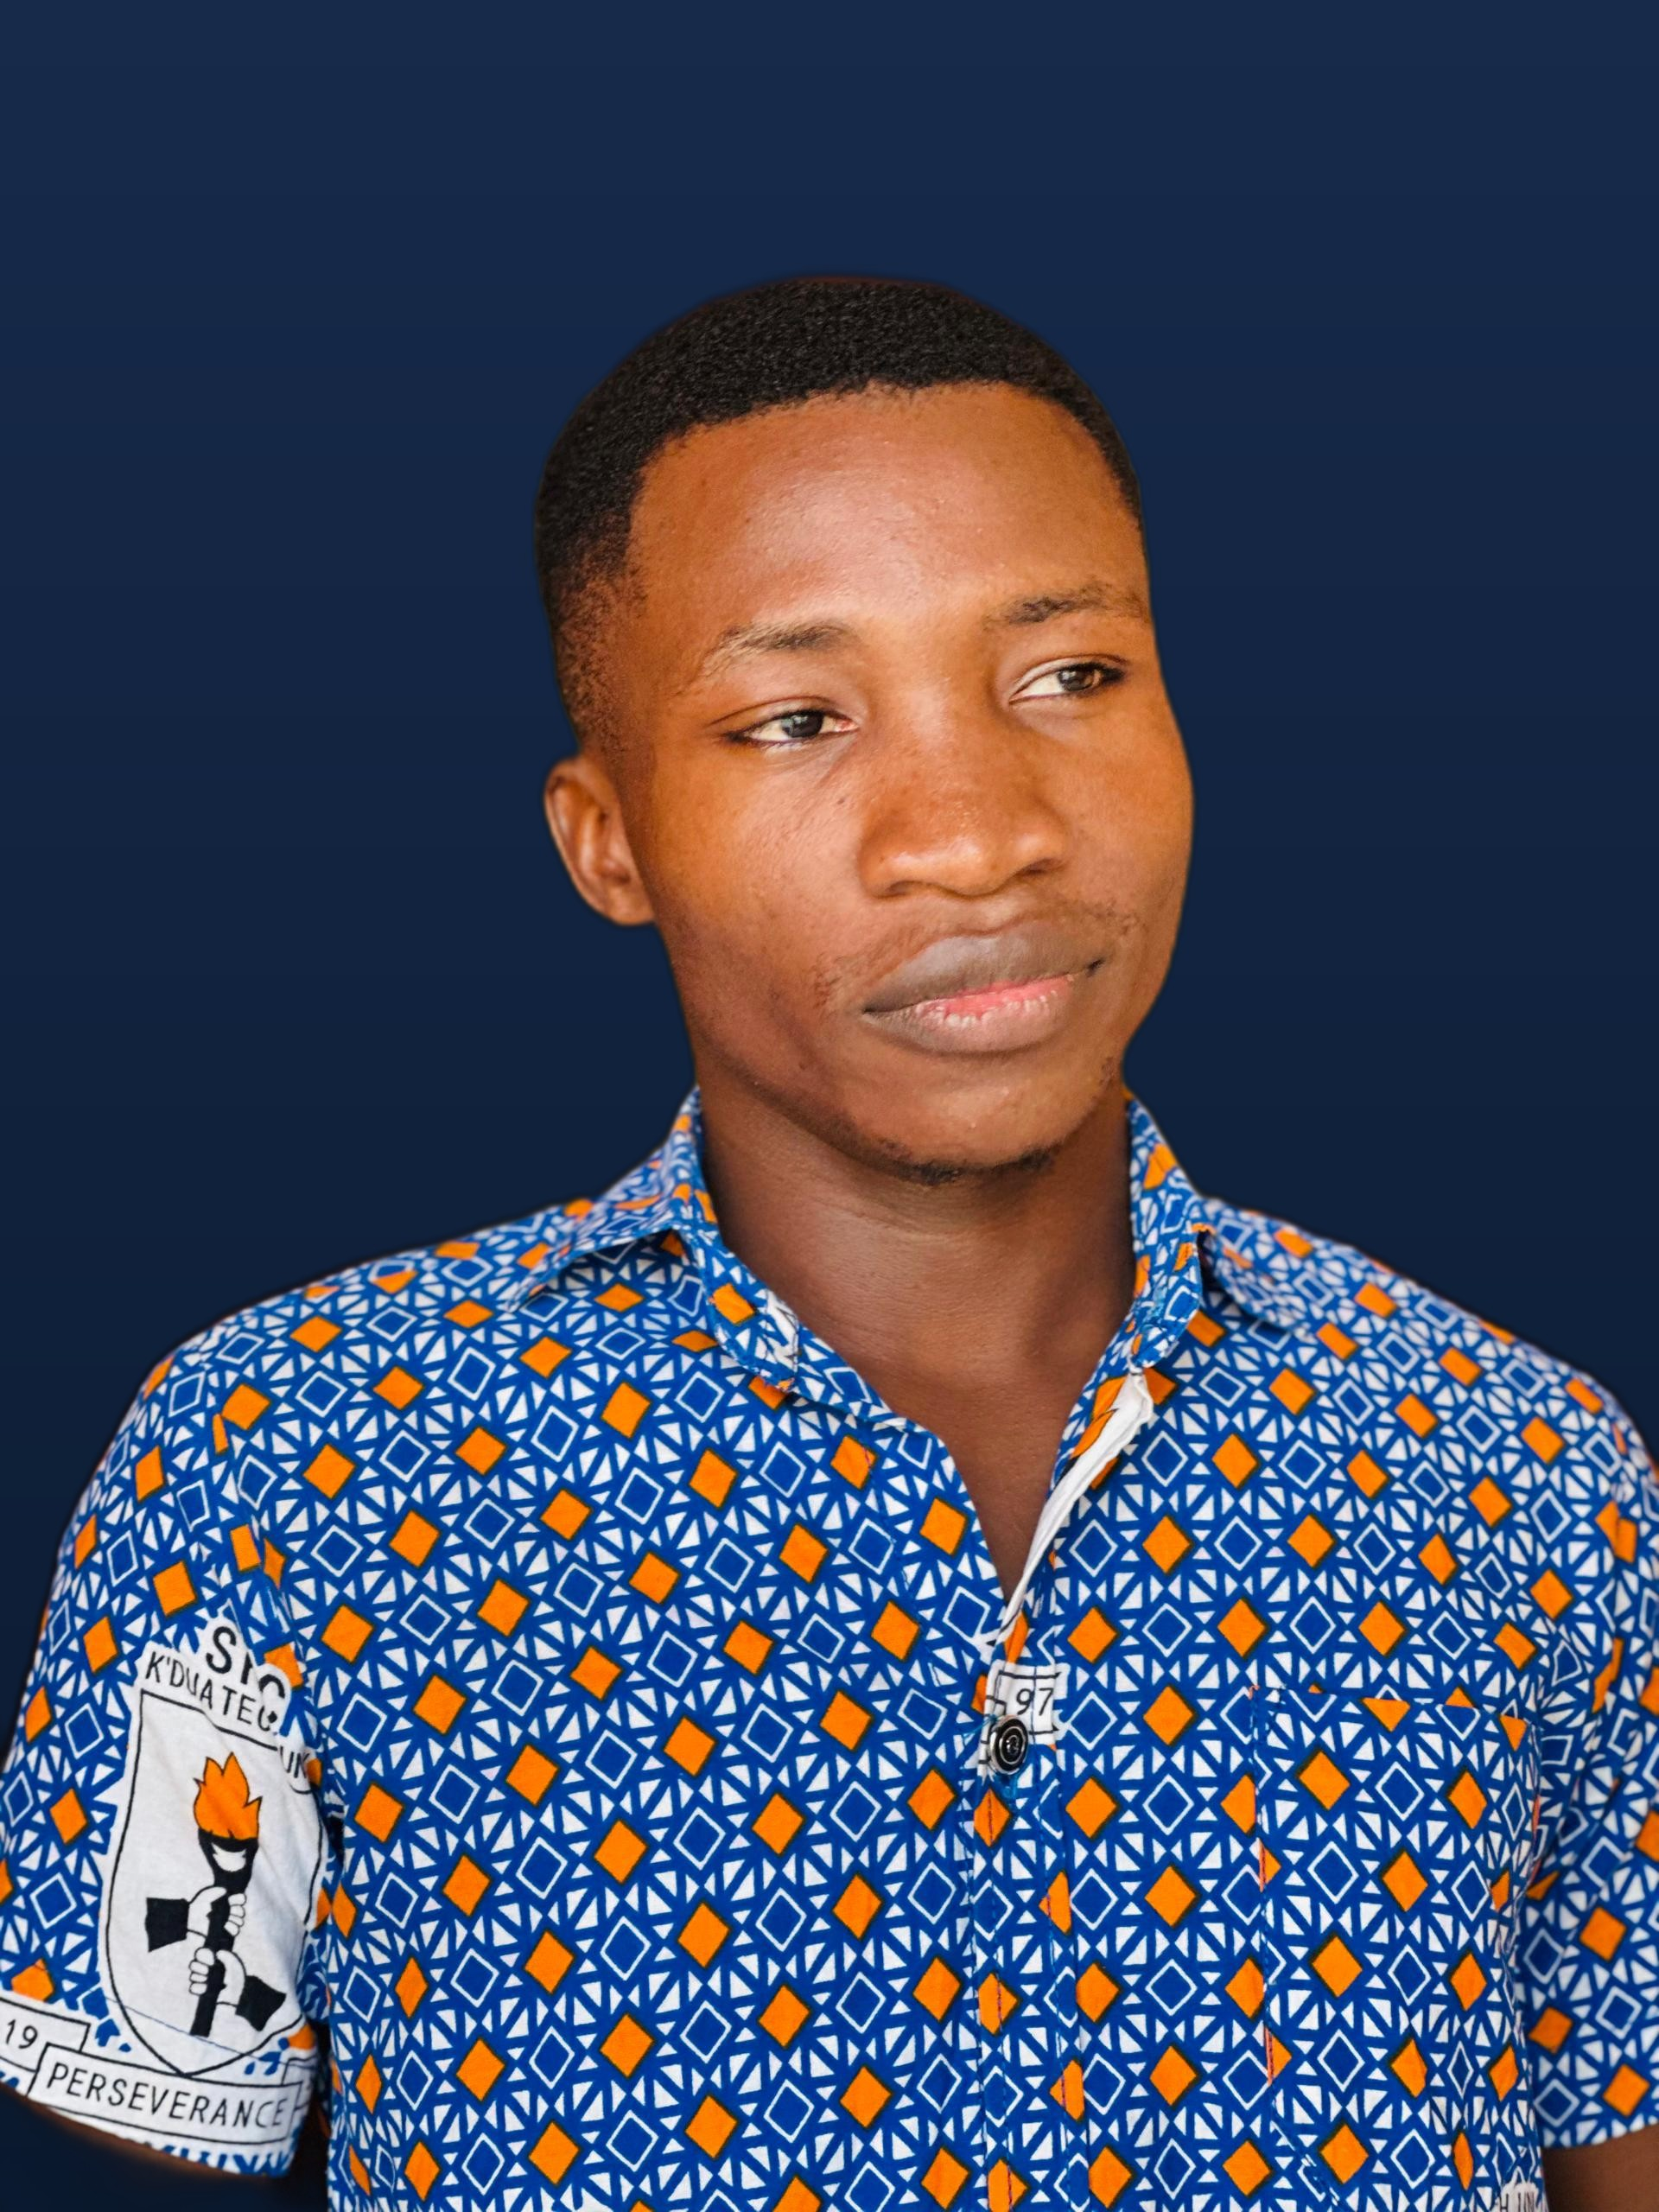
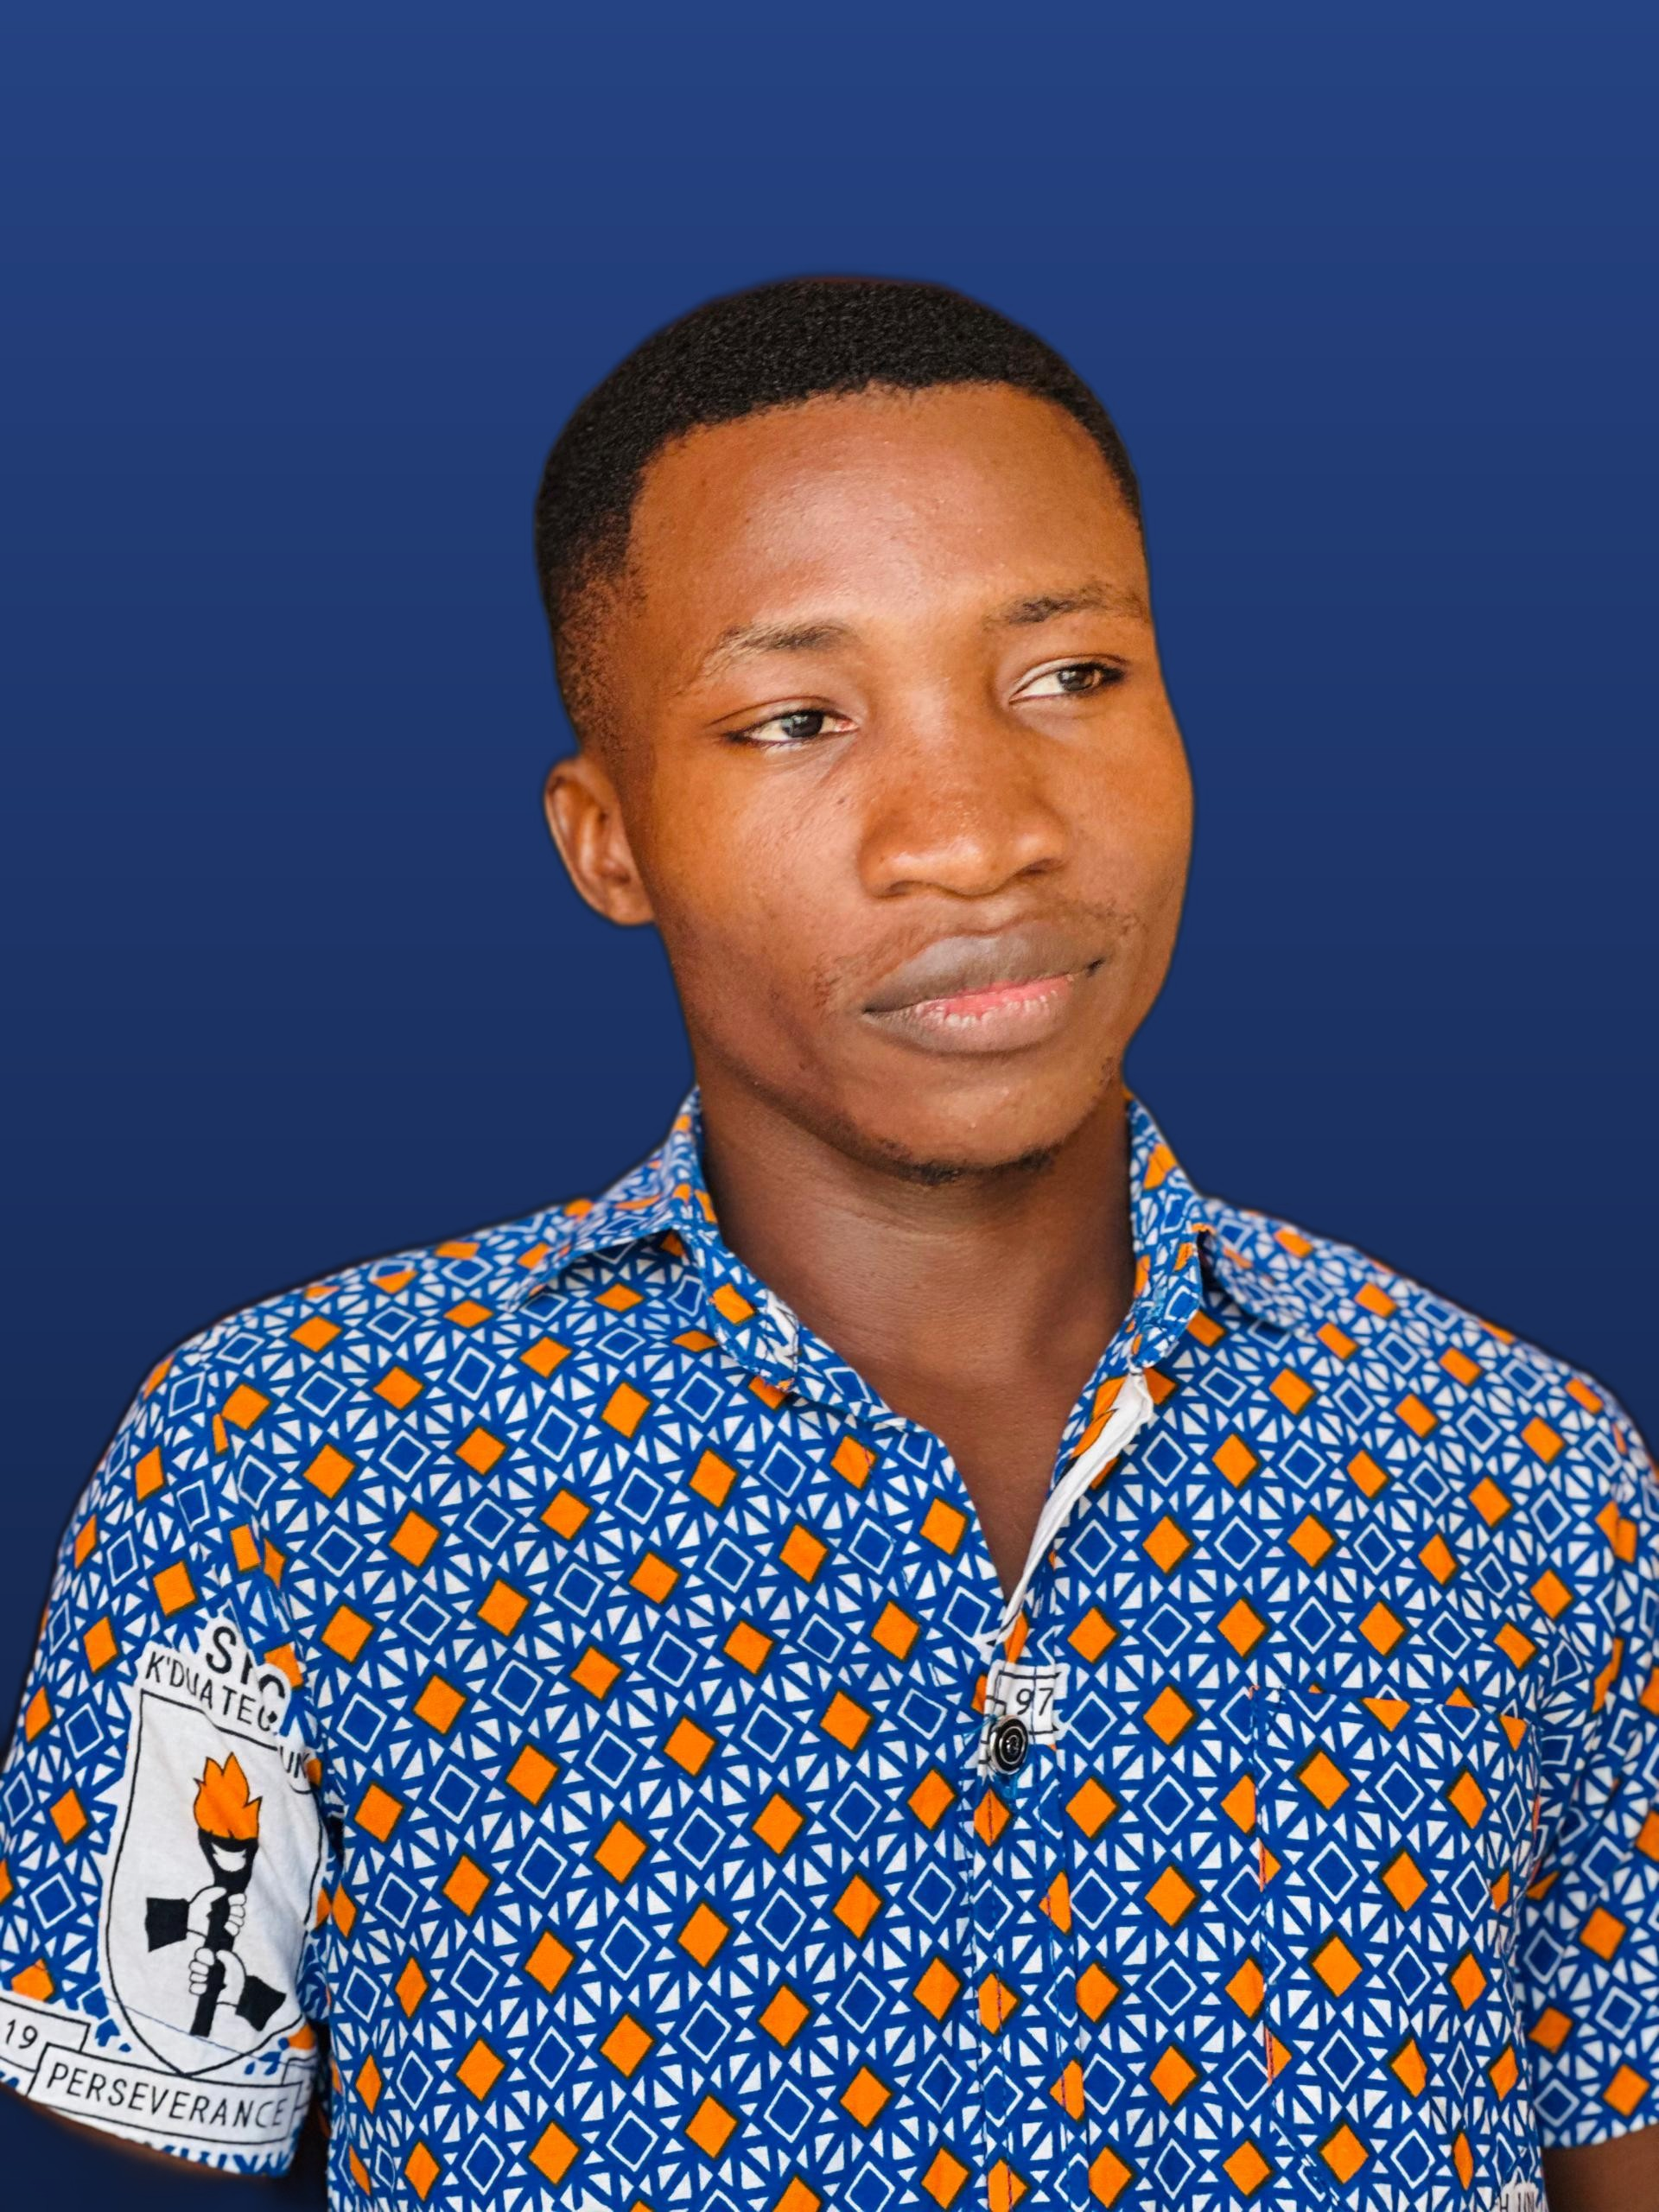
Navy blue photo background, full-fit portrait, 3D animations

diff --git a/style.css b/style.css
@@ -210,20 +210,41 @@ button:focus-visible {
   padding-block: var(--space-xl);
 }
 
-/* Portrait photo — rounded, with an offset accent frame behind it */
+/* Portrait photo — rounded, with an offset accent frame behind it.
+   The wrapper provides perspective so the child can tilt in 3D. */
 .hero-photo {
   position: relative;
   width: min(280px, 70%);
   align-self: center;          /* centered when stacked on mobile */
+  perspective: 900px;          /* enables the 3D tilt effect below */
 }
 
 .hero-photo img {
   width: 100%;
-  aspect-ratio: 4 / 5;         /* consistent crop at any size */
+  aspect-ratio: 3 / 4;         /* matches the photo exactly — whole portrait fits, no crop */
   object-fit: cover;
   border-radius: var(--radius);
   border: 2px solid var(--color-accent);
   box-shadow: var(--shadow);
+  /* Gentle 3D floating animation (defined in the keyframes below) */
+  animation: photo-float 6s ease-in-out infinite;
+  transition: transform 0.4s ease, box-shadow 0.4s ease;
+  will-change: transform;
+}
+
+/* On hover the photo tilts toward the viewer and glows */
+.hero-photo:hover img {
+  animation-play-state: paused;
+  transform: rotateY(-8deg) rotateX(4deg) translateY(-6px) scale(1.02);
+  box-shadow: 0 25px 50px -12px rgba(100, 255, 218, 0.35);
+}
+
+/* Continuous subtle 3D sway: small Y/X rotations + a slow bob */
+@keyframes photo-float {
+  0%, 100% { transform: rotateY(0deg)  rotateX(0deg)  translateY(0); }
+  25%      { transform: rotateY(4deg)  rotateX(-2deg) translateY(-6px); }
+  50%      { transform: rotateY(0deg)  rotateX(0deg)  translateY(-10px); }
+  75%      { transform: rotateY(-4deg) rotateX(2deg)  translateY(-6px); }
 }
 
 /* Decorative offset outline behind the photo */
@@ -384,6 +405,7 @@ button:focus-visible {
 .projects-grid {
   display: grid;
   gap: var(--space-lg);
+  perspective: 1200px;         /* lets the cards tilt in 3D on hover */
 }
 
 .project-card {
@@ -395,9 +417,9 @@ button:focus-visible {
               border-color var(--transition);
 }
 
-/* Hover: lift the card, glow the border, deepen the shadow */
+/* Hover: 3D tilt + lift, glow the border, deepen the shadow */
 .project-card:hover {
-  transform: translateY(-6px);
+  transform: rotateX(3deg) rotateY(-3deg) translateY(-8px);
   box-shadow: var(--shadow);
   border-color: var(--color-accent);
 }
@@ -548,6 +570,20 @@ button:focus-visible {
   text-align: center;
   color: var(--color-text-muted);
   font-size: 0.85rem;
+}
+
+/* ==============================================================
+   12b. REDUCED MOTION — respect users who turn animations off
+   ============================================================== */
+@media (prefers-reduced-motion: reduce) {
+  .hero-photo img {
+    animation: none;
+  }
+
+  .hero-photo:hover img,
+  .project-card:hover {
+    transform: none;
+  }
 }
 
 /* ==============================================================